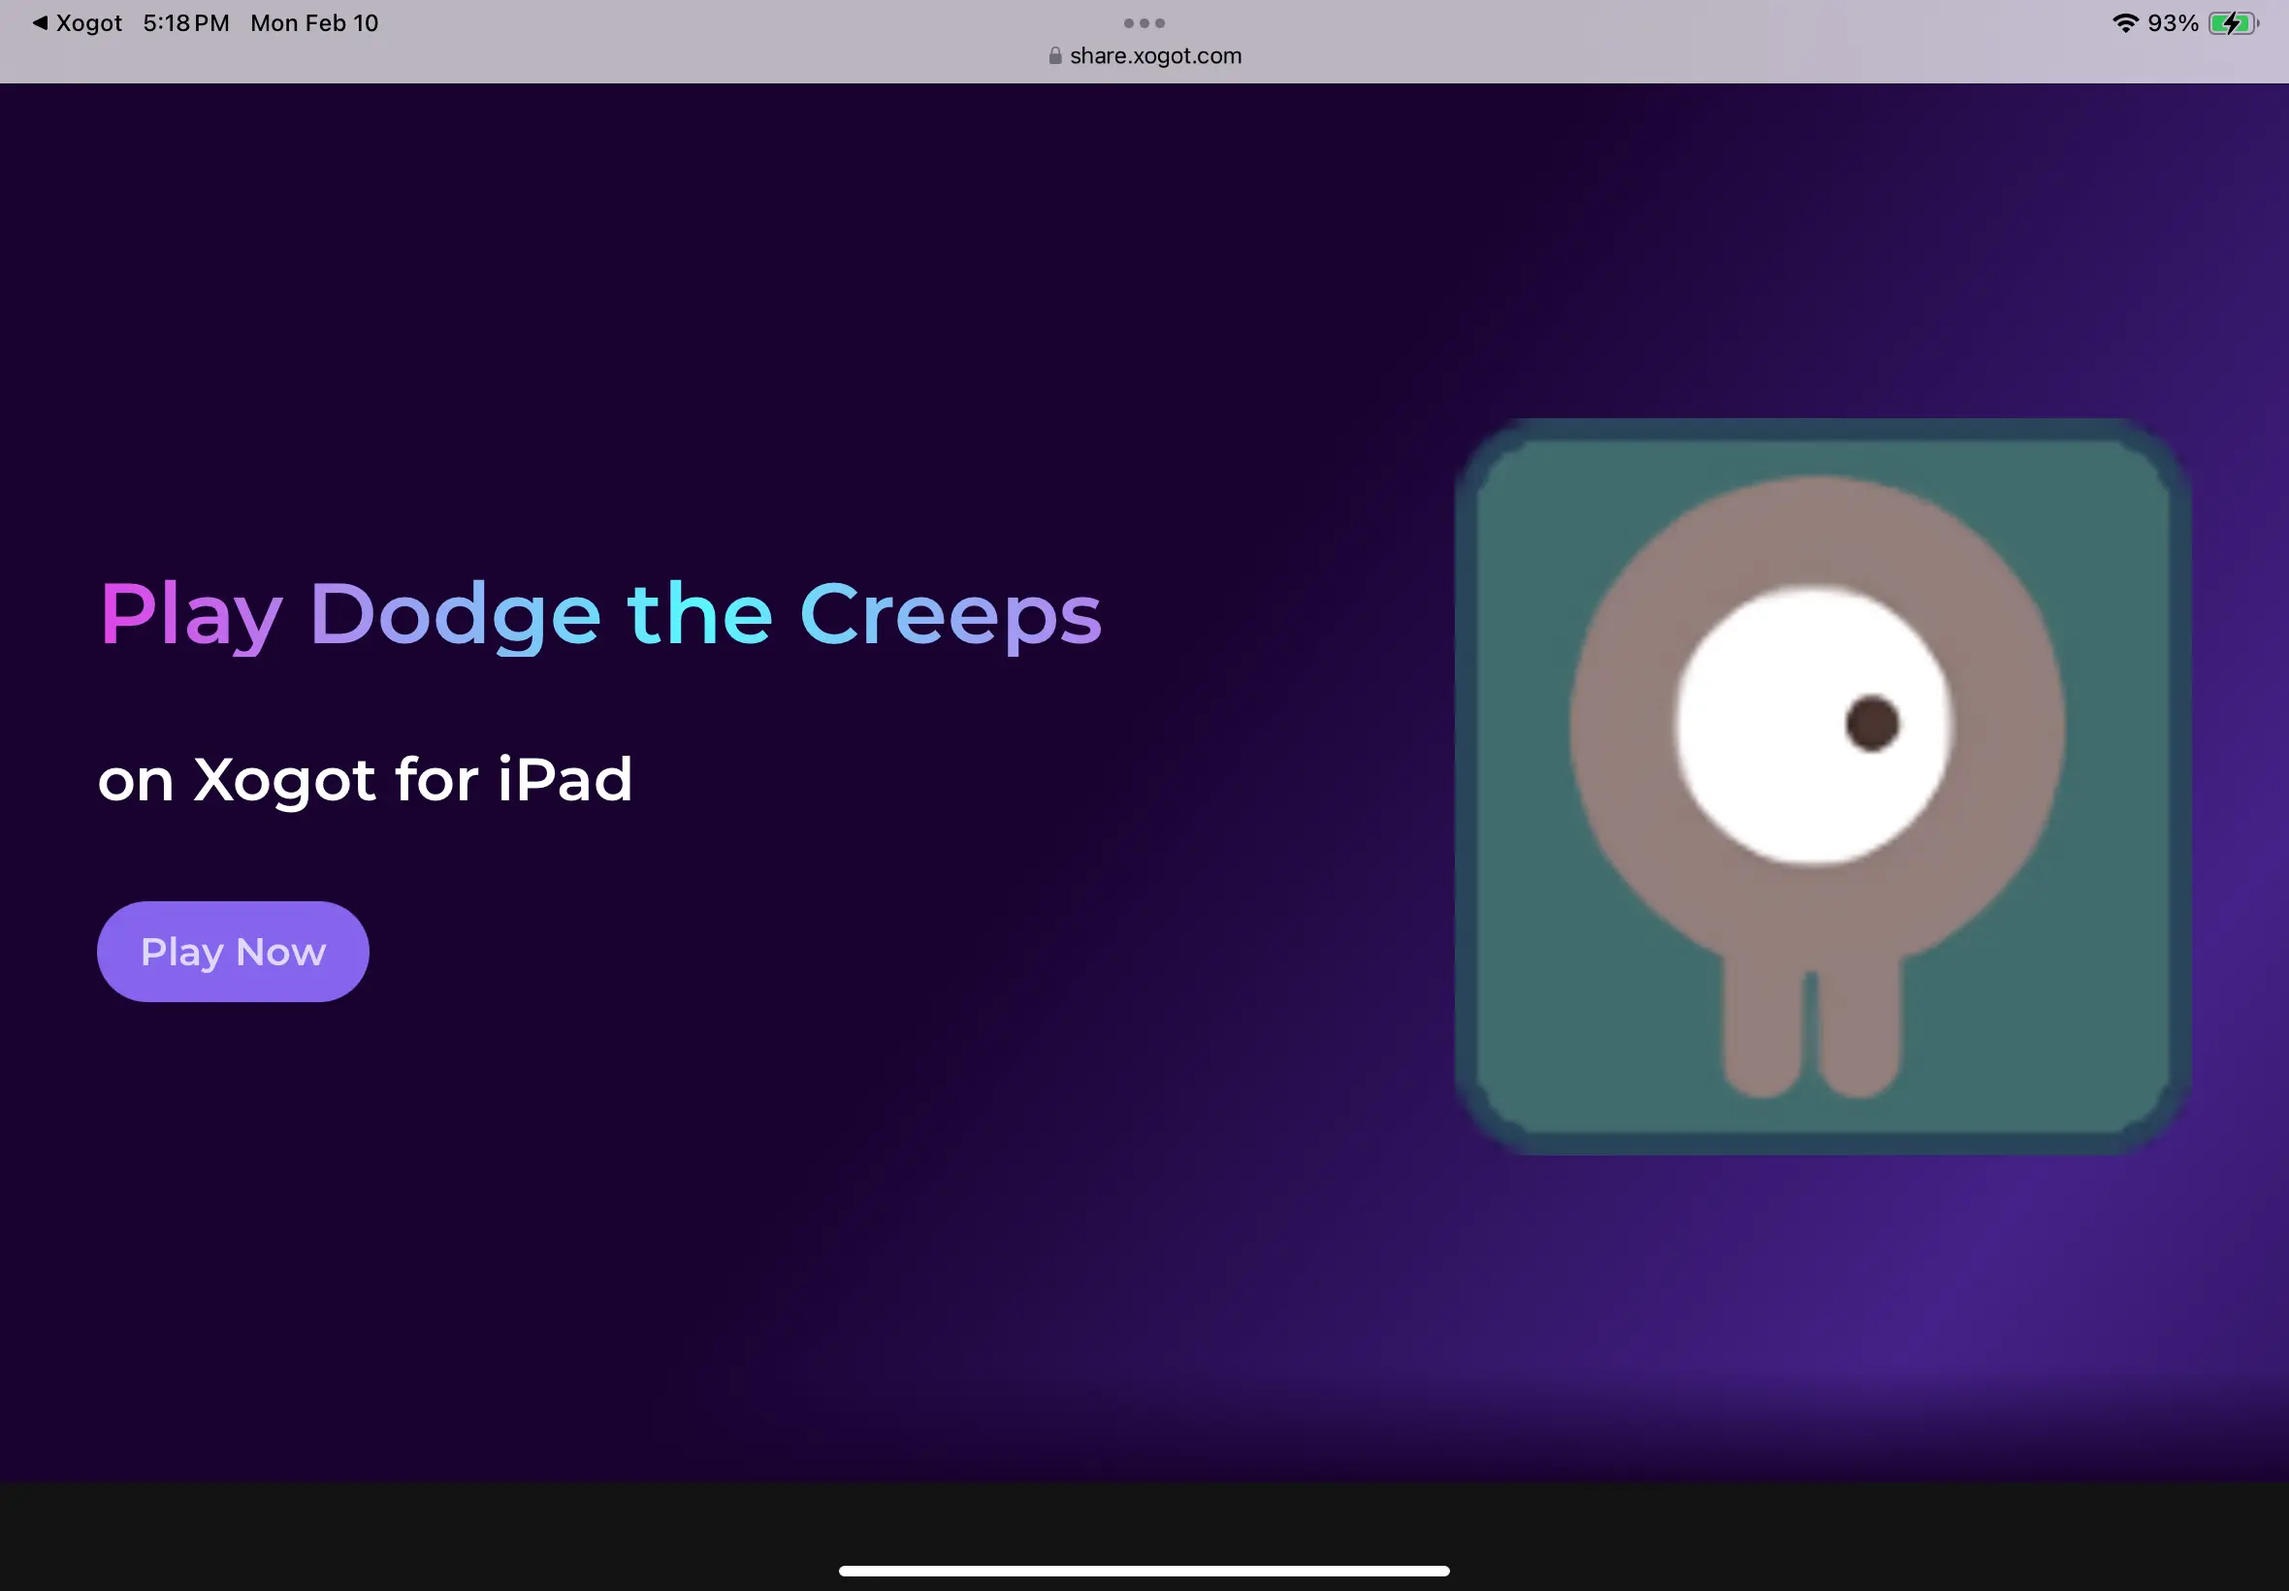
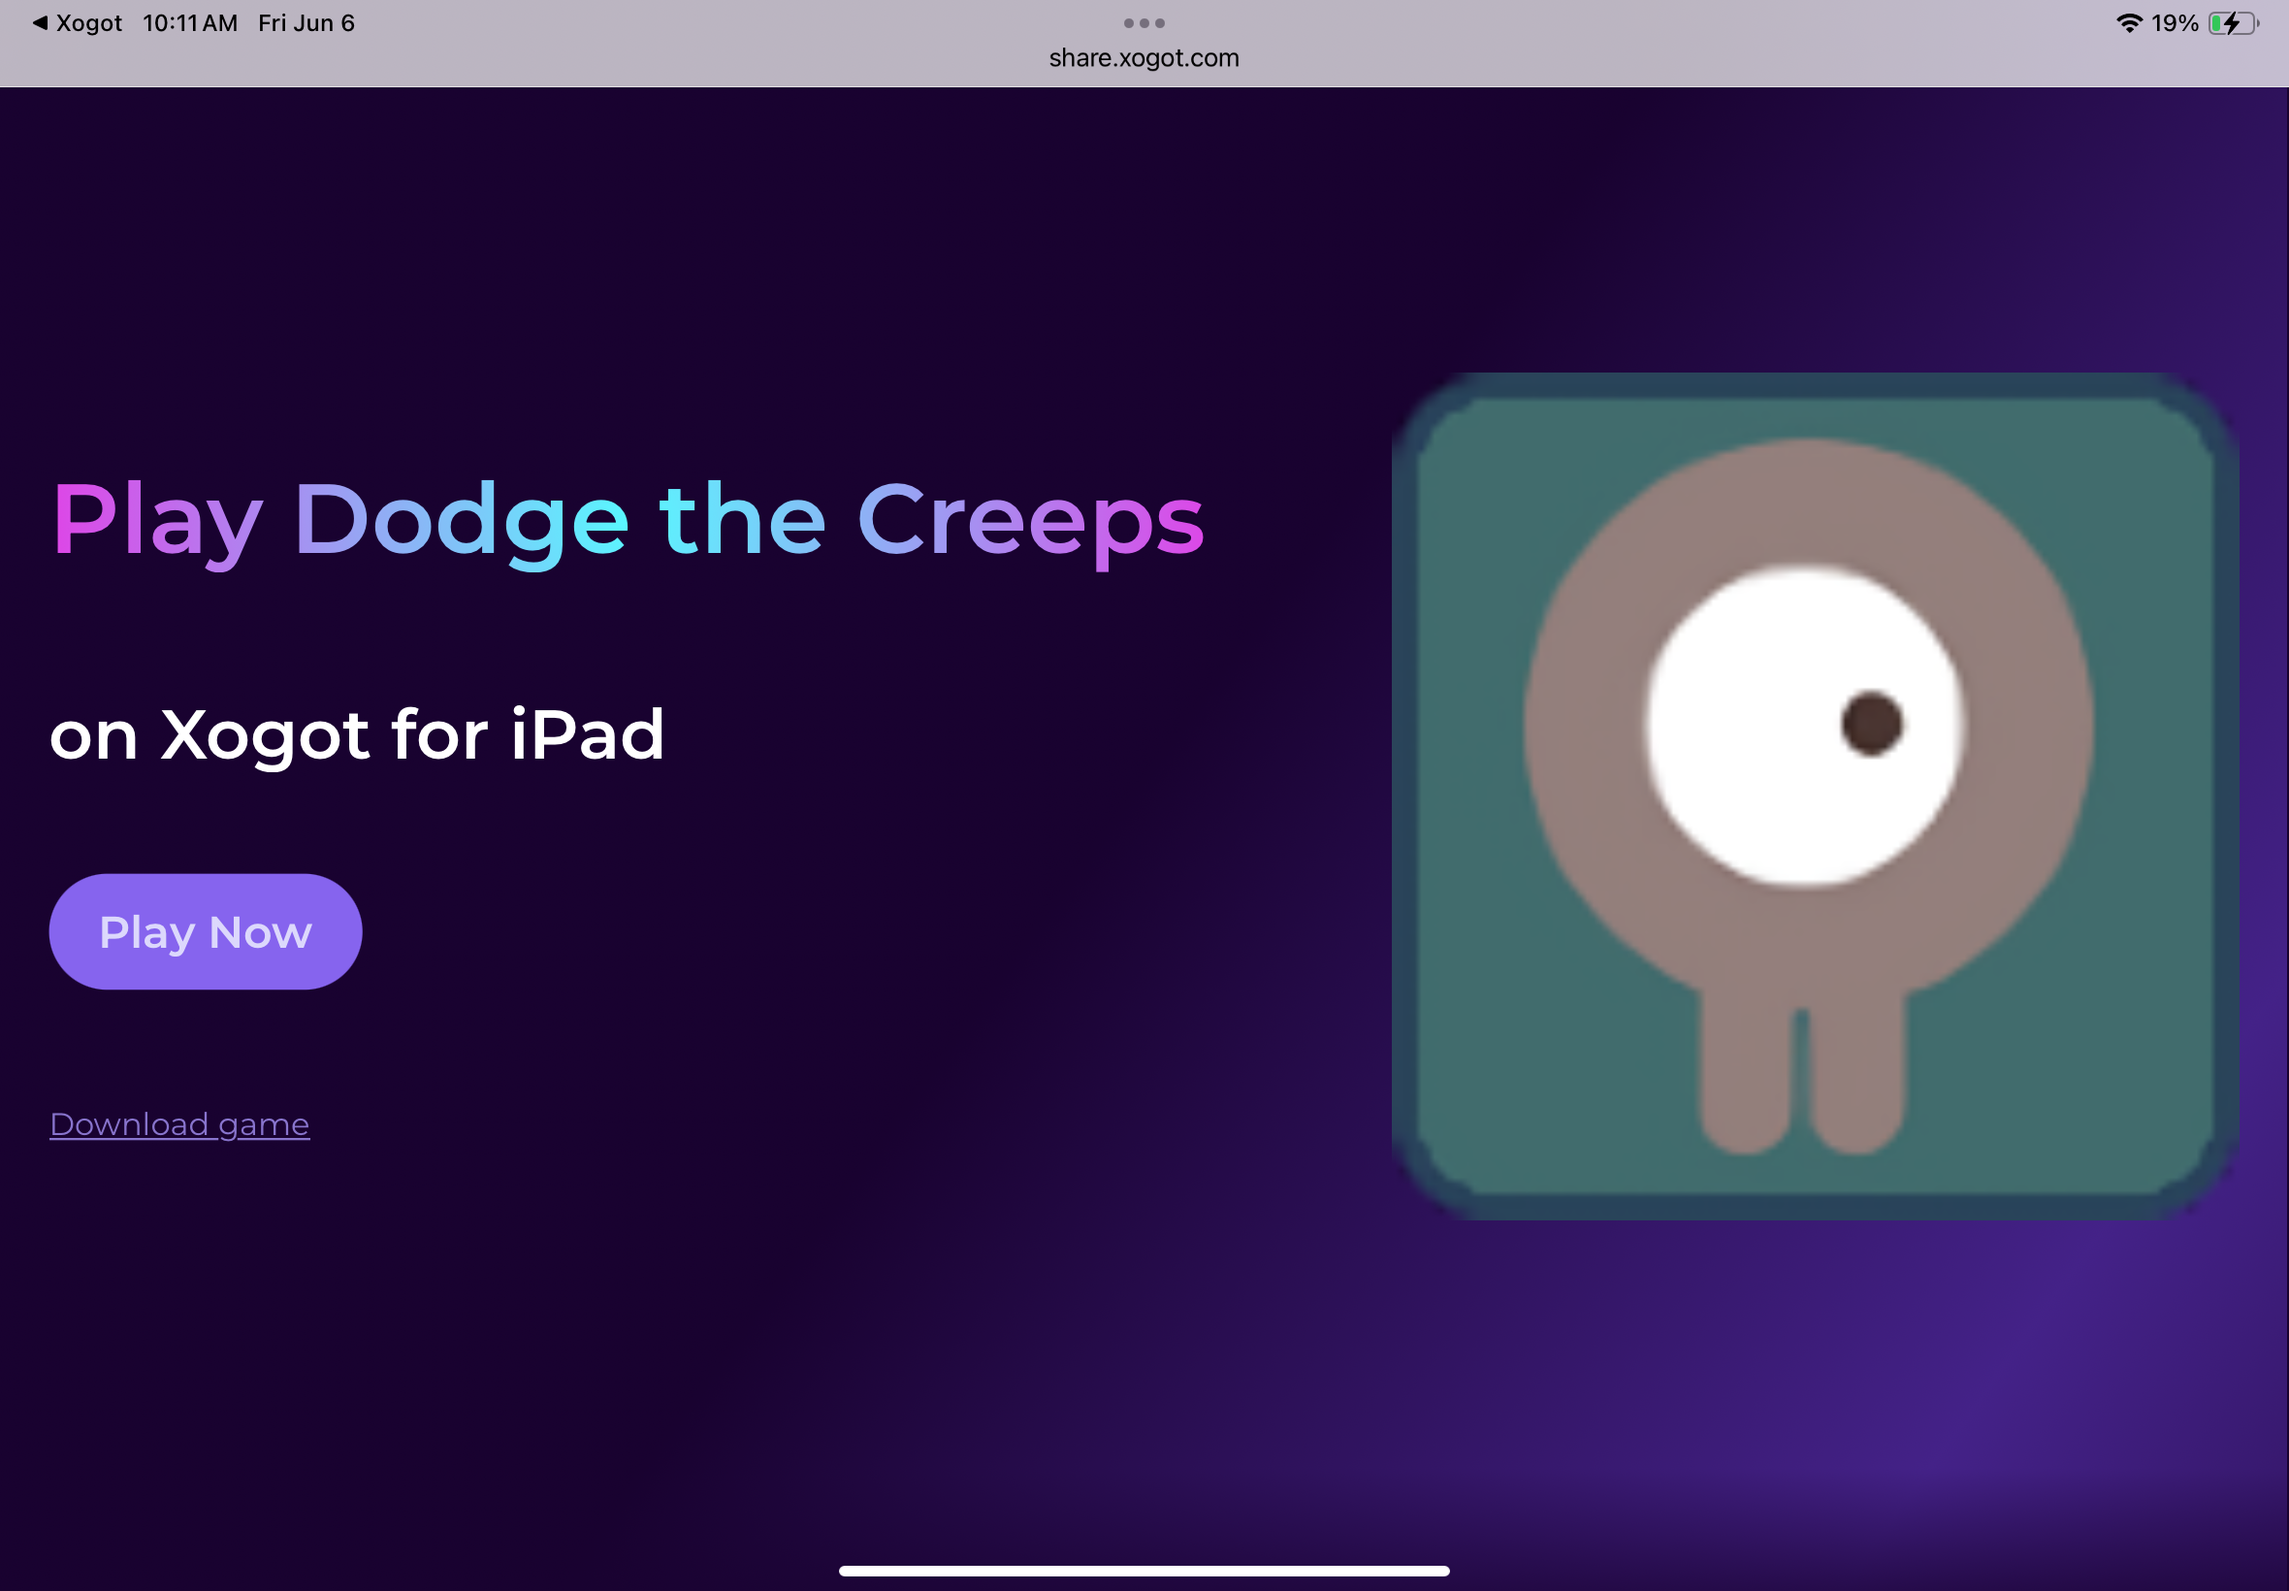
Add Publishing to the Web guide

diff --git a/Documentation.docc/Publishing to the Web.md b/Documentation.docc/Publishing to the Web.md
@@ -1,0 +1,75 @@
+# Publishing to the Web
+
+Once you've finished developing your game in Xogot, sharing it with others 
+is simple. Xogot makes it easy to create a web build that you can share 
+directly or upload to popular game distribution platforms 
+like [itch.io](https://itch.io).
+
+## Exporting a Web Build in Xogot
+
+1. Tap on the **...** (1) toolbar button in the upper-right corner of Xogot 
+and tap **Export Game** (2) to open the *Share Game* dialog.
+    
+@Image(source: fin_export_web.png)
+2. To share your game, you'll need to login.  You can tap the big 
+"Sign in with Apple" button to create an account or sign back in.
+
+@Image(source: fin_share_signin.png)
+3. On the **Share Game** screen, you can provide a name that will
+be shown to players that you share your game with.
+    
+The default name will come from your project settings.
+
+@Image(source: fin_share_screen.png)
+4. Tap **Build and Upload** to build your game and upload it.
+
+@Image(source: fin_upload.png)
+5. Congratulations!  Your game has been uploaded!
+Tap the URL to play your game in Safari.  Or, tap the share button 
+to share your game through Messages, AirDrop, etc.  Shared games can
+be played directly in the browser on any platform running an
+up-to-date browser.  
+
+@Image(source: fin_share_site.png)
+
+## Downloading a Zip File for Distribution
+After you’ve exported your game to Xogot’s hosting, you can download a 
+standalone zip file suitable for distribution elsewhere.  
+
+1. If you haven't already, export your game following the steps above.
+2. Return to your game's landing page on Xogot.
+ * If you need the URL, open the **Export Game** dialog again and tap 
+the **Share URL** to visit your game's page.
+2. On the landing page, tap **Download game** located just below the 
+**Play now** button.
+@Image(source: download_game.png)
+
+The downloaded zip file contains everything needed to run your game in 
+a web browser and can be uploaded directly to platforms like itch.io.
+
+## Uploading Your Game to itch.io
+
+[itch.io](https://itch.io) is a popular platform for distributing indie games, including browser-based games exported from Xogot. Here's how to upload your game:
+
+1. **Create an itch.io account**, if you don’t already have one.
+2. On itch.io, click **Upload new project**.
+3. Enter basic information about your game:
+   * Title
+   * Project URL
+4. In the **Kind of project** section, select **HTML**.
+5. Upload the zip file you downloaded from Xogot, following the instructions from the 
+section above.
+6. Ensure the **"This file will be played in the browser"** option is checked.
+7. Optionally configure your game's display settings, such as viewport size or fullscreen behavior.
+8. (Optional) Fill in other details about your project:
+    * Short description or tagline (optional)
+    * Description (including screenshots or cover art)
+    * Tags and genre
+9. Set the visibility of your game to **Draft** or **Public** depending on whether you're ready to release.
+10. Click **Save & View Page** to preview your game page.
+11. Once you're happy with everything, click **Publish** to make your game available to others.
+
+Your game is now live and fully playable in the browser via itch.io!
+
+@Image(source: itch_loading.png)
+
